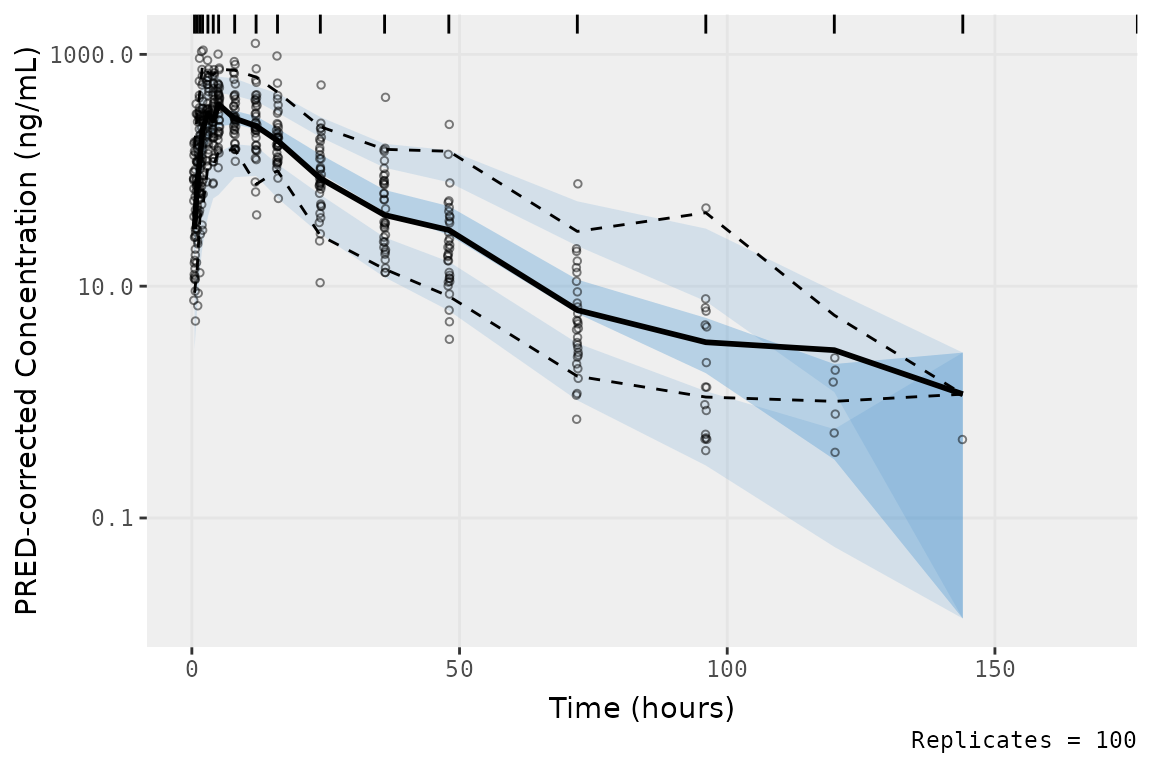
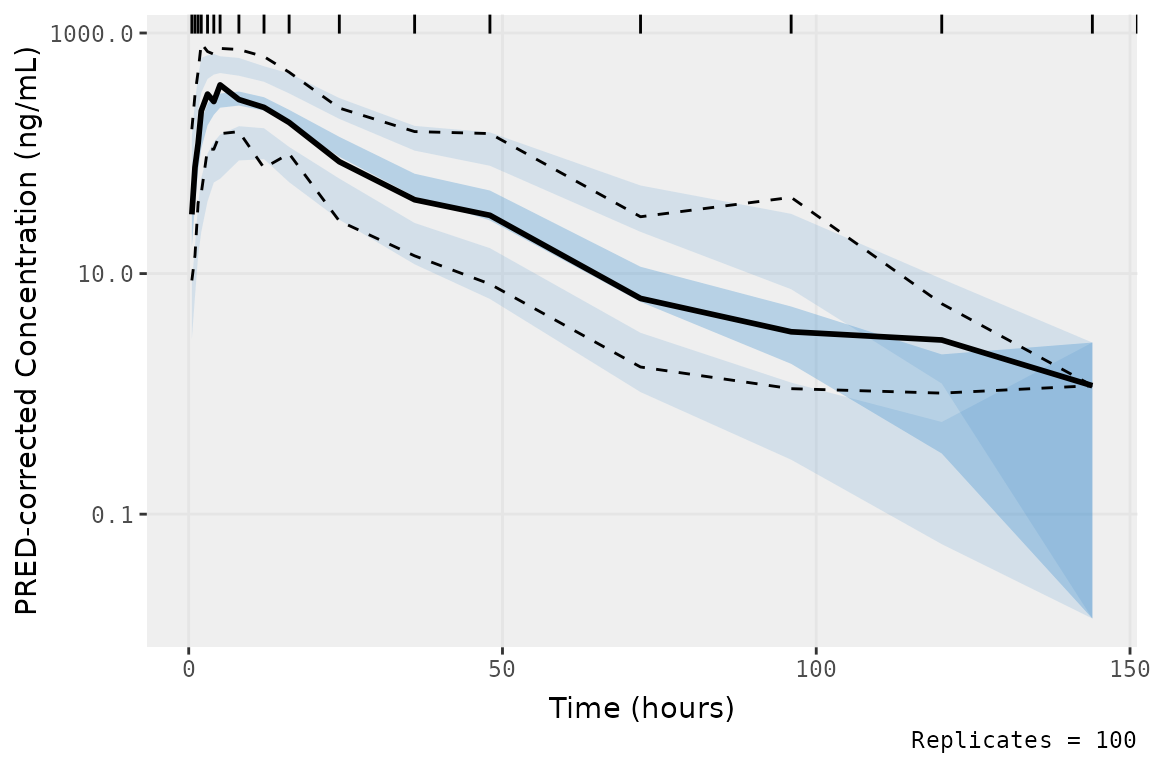
Deploying to gh-pages from @ ryancrass/pmxhelpr@6d241ac0917de4b4748eaf96eae78f7027ea180c 🚀

diff --git a/reference/plot_legend.html b/reference/plot_legend.html
@@ -1,0 +1,135 @@
+<!DOCTYPE html>
+<!-- Generated by pkgdown: do not edit by hand --><html lang="en"><head><meta http-equiv="Content-Type" content="text/html; charset=UTF-8"><meta charset="utf-8"><meta http-equiv="X-UA-Compatible" content="IE=edge"><meta name="viewport" content="width=device-width, initial-scale=1, shrink-to-fit=no"><title>Plot a legend for a visual predictive check (VPC) — plot_legend • pmxhelpr</title><script src="../deps/jquery-3.6.0/jquery-3.6.0.min.js"></script><meta name="viewport" content="width=device-width, initial-scale=1, shrink-to-fit=no"><link href="../deps/bootstrap-5.3.1/bootstrap.min.css" rel="stylesheet"><script src="../deps/bootstrap-5.3.1/bootstrap.bundle.min.js"></script><link href="../deps/font-awesome-6.4.2/css/all.min.css" rel="stylesheet"><link href="../deps/font-awesome-6.4.2/css/v4-shims.min.css" rel="stylesheet"><script src="../deps/headroom-0.11.0/headroom.min.js"></script><script src="../deps/headroom-0.11.0/jQuery.headroom.min.js"></script><script src="../deps/bootstrap-toc-1.0.1/bootstrap-toc.min.js"></script><script src="../deps/clipboard.js-2.0.11/clipboard.min.js"></script><script src="../deps/search-1.0.0/autocomplete.jquery.min.js"></script><script src="../deps/search-1.0.0/fuse.min.js"></script><script src="../deps/search-1.0.0/mark.min.js"></script><!-- pkgdown --><script src="../pkgdown.js"></script><meta property="og:title" content="Plot a legend for a visual predictive check (VPC) — plot_legend"><meta name="description" content="Plot a legend for a visual predictive check (VPC)"><meta property="og:description" content="Plot a legend for a visual predictive check (VPC)"><meta property="og:image" content="https://ryancrass.github.io/pmxhelpr/logo.png"></head><body>
+    <a href="#main" class="visually-hidden-focusable">Skip to contents</a>
+
+
+    <nav class="navbar navbar-expand-lg fixed-top bg-light" data-bs-theme="light" aria-label="Site navigation"><div class="container">
+
+    <a class="navbar-brand me-2" href="../index.html">pmxhelpr</a>
+
+    <small class="nav-text text-muted me-auto" data-bs-toggle="tooltip" data-bs-placement="bottom" title="">0.0.2.9000</small>
+
+
+    <button class="navbar-toggler" type="button" data-bs-toggle="collapse" data-bs-target="#navbar" aria-controls="navbar" aria-expanded="false" aria-label="Toggle navigation">
+      <span class="navbar-toggler-icon"></span>
+    </button>
+
+    <div id="navbar" class="collapse navbar-collapse ms-3">
+      <ul class="navbar-nav me-auto"><li class="active nav-item"><a class="nav-link" href="../reference/index.html">Reference</a></li>
+<li class="nav-item dropdown">
+  <button class="nav-link dropdown-toggle" type="button" id="dropdown-articles" data-bs-toggle="dropdown" aria-expanded="false" aria-haspopup="true">Articles</button>
+  <ul class="dropdown-menu" aria-labelledby="dropdown-articles"><li><a class="dropdown-item" href="../articles/vpc-exact-bins.html">VPC Plots with Exact Bins</a></li>
+  </ul></li>
+<li class="nav-item"><a class="nav-link" href="../news/index.html">Changelog</a></li>
+      </ul><ul class="navbar-nav"><li class="nav-item"><form class="form-inline" role="search">
+ <input class="form-control" type="search" name="search-input" id="search-input" autocomplete="off" aria-label="Search site" placeholder="Search for" data-search-index="../search.json"></form></li>
+<li class="nav-item"><a class="external-link nav-link" href="https://github.com/ryancrass/pmxhelpr/" aria-label="GitHub"><span class="fa fab fa-github fa-lg"></span></a></li>
+      </ul></div>
+
+
+  </div>
+</nav><div class="container template-reference-topic">
+<div class="row">
+  <main id="main" class="col-md-9"><div class="page-header">
+      <img src="../logo.png" class="logo" alt=""><h1>Plot a legend for a visual predictive check (VPC)</h1>
+      <small class="dont-index">Source: <a href="https://github.com/ryancrass/pmxhelpr/blob/main/R/plot_legend.R" class="external-link"><code>R/plot_legend.R</code></a></small>
+      <div class="d-none name"><code>plot_legend.Rd</code></div>
+    </div>
+
+    <div class="ref-description section level2">
+    <p>Plot a legend for a visual predictive check (VPC)</p>
+    </div>
+
+    <div class="section level2">
+    <h2 id="ref-usage">Usage<a class="anchor" aria-label="anchor" href="#ref-usage"></a></h2>
+    <div class="sourceCode"><pre class="sourceCode r"><code><span><span class="fu">plot_legend</span><span class="op">(</span></span>
+<span>  ci <span class="op">=</span> <span class="fu"><a href="https://rdrr.io/r/base/c.html" class="external-link">c</a></span><span class="op">(</span><span class="fl">0.05</span>, <span class="fl">0.95</span><span class="op">)</span>,</span>
+<span>  pi <span class="op">=</span> <span class="fu"><a href="https://rdrr.io/r/base/c.html" class="external-link">c</a></span><span class="op">(</span><span class="fl">0.05</span>, <span class="fl">0.95</span><span class="op">)</span>,</span>
+<span>  shown <span class="op">=</span> <span class="fu"><a href="https://rdrr.io/r/base/list.html" class="external-link">list</a></span><span class="op">(</span>obs_dv <span class="op">=</span> <span class="cn">TRUE</span>, obs_ci <span class="op">=</span> <span class="cn">TRUE</span>, pi <span class="op">=</span> <span class="cn">FALSE</span>, pi_as_area <span class="op">=</span> <span class="cn">FALSE</span>, pi_ci <span class="op">=</span></span>
+<span>    <span class="cn">TRUE</span>, obs_median <span class="op">=</span> <span class="cn">TRUE</span>, sim_median <span class="op">=</span> <span class="cn">FALSE</span>, sim_median_ci <span class="op">=</span> <span class="cn">TRUE</span><span class="op">)</span></span>
+<span><span class="op">)</span></span></code></pre></div>
+    </div>
+
+    <div class="section level2">
+    <h2 id="arguments">Arguments<a class="anchor" aria-label="anchor" href="#arguments"></a></h2>
+
+
+<dl><dt id="arg-ci">ci<a class="anchor" aria-label="anchor" href="#arg-ci"></a></dt>
+<dd><p>simulated confidence interval plotted. Should match argument passed to <code><a href="https://rdrr.io/pkg/vpc/man/vpc.html" class="external-link">vpc::vpc()</a></code>. Default is c(0.05, 0.95).</p></dd>
+
+
+<dt id="arg-pi">pi<a class="anchor" aria-label="anchor" href="#arg-pi"></a></dt>
+<dd><p>prediction intervals for plotted. Should match argument passed to <code><a href="https://rdrr.io/pkg/vpc/man/vpc.html" class="external-link">vpc::vpc()</a></code>. Default is c(0.05, 0.95),</p></dd>
+
+
+<dt id="arg-shown">shown<a class="anchor" aria-label="anchor" href="#arg-shown"></a></dt>
+<dd><p>Named list of logicals specifying which layers to include on the plot passed to <code>show</code> argument of <code><a href="https://rdrr.io/pkg/vpc/man/vpc.html" class="external-link">vpc::vpc()</a></code>.
+Entire <code>list</code> must be specified if modifying from default.</p>
+<p>Default is:</p><ul><li><p>Observed points: <code>obs_dv</code> = FALSE.</p></li>
+<li><p>Observed quantiles: <code>obs_ci</code> = TRUE</p></li>
+<li><p>Simulated inter-quantile range:<code>pi</code> = FALSE</p></li>
+<li><p>Simulated inter-quantile area: <code>pi_as_area</code> = FALSE</p></li>
+<li><p>Simulated Quantile CI: <code>pi_ci</code> = TRUE</p></li>
+<li><p>Observed Median: <code>obs_median</code> = TRUE</p></li>
+<li><p>Simulated Median: <code>sim_median</code> = FALSE</p></li>
+<li><p>Simulated Median CI: <code>sim_median_ci</code> = TRUE</p></li>
+</ul></dd>
+
+</dl></div>
+    <div class="section level2">
+    <h2 id="value">Value<a class="anchor" aria-label="anchor" href="#value"></a></h2>
+    <p>a ggplot2 object</p>
+    </div>
+
+    <div class="section level2">
+    <h2 id="ref-examples">Examples<a class="anchor" aria-label="anchor" href="#ref-examples"></a></h2>
+    <div class="sourceCode"><pre class="sourceCode r"><code><span class="r-in"><span><span class="fu">plot_legend</span><span class="op">(</span><span class="op">)</span></span></span>
+<span class="r-wrn co"><span class="r-pr">#&gt;</span> <span class="warning">Warning: </span>Removed 1 row containing missing values or values outside the scale range</span>
+<span class="r-wrn co"><span class="r-pr">#&gt;</span> (`geom_point()`).</span>
+<span class="r-wrn co"><span class="r-pr">#&gt;</span> <span class="warning">Warning: </span>Removed 1 row containing missing values or values outside the scale range</span>
+<span class="r-wrn co"><span class="r-pr">#&gt;</span> (`geom_line()`).</span>
+<span class="r-wrn co"><span class="r-pr">#&gt;</span> <span class="warning">Warning: </span>Removed 1 row containing missing values or values outside the scale range</span>
+<span class="r-wrn co"><span class="r-pr">#&gt;</span> (`geom_line()`).</span>
+<span class="r-wrn co"><span class="r-pr">#&gt;</span> <span class="warning">Warning: </span>Removed 1 row containing missing values or values outside the scale range</span>
+<span class="r-wrn co"><span class="r-pr">#&gt;</span> (`geom_rect()`).</span>
+<span class="r-wrn co"><span class="r-pr">#&gt;</span> <span class="warning">Warning: </span>Removed 1 row containing missing values or values outside the scale range</span>
+<span class="r-wrn co"><span class="r-pr">#&gt;</span> (`geom_rect()`).</span>
+<span class="r-plt img"><img src="plot_legend-1.png" alt="" width="700" height="433"></span>
+<span class="r-in"><span><span class="fu">plot_legend</span><span class="op">(</span></span></span>
+<span class="r-in"><span>pi <span class="op">=</span> <span class="fu"><a href="https://rdrr.io/r/base/c.html" class="external-link">c</a></span><span class="op">(</span><span class="fl">0.025</span>, <span class="fl">0.975</span><span class="op">)</span>,</span></span>
+<span class="r-in"><span>ci <span class="op">=</span> <span class="fu"><a href="https://rdrr.io/r/base/c.html" class="external-link">c</a></span><span class="op">(</span><span class="fl">0.025</span>, <span class="fl">0.925</span><span class="op">)</span>,</span></span>
+<span class="r-in"><span> shown <span class="op">=</span> <span class="fu"><a href="https://rdrr.io/r/base/list.html" class="external-link">list</a></span><span class="op">(</span>obs_dv <span class="op">=</span> <span class="cn">FALSE</span>, obs_ci <span class="op">=</span> <span class="cn">TRUE</span>,</span></span>
+<span class="r-in"><span> pi <span class="op">=</span> <span class="cn">FALSE</span>, pi_as_area <span class="op">=</span> <span class="cn">FALSE</span>, pi_ci <span class="op">=</span> <span class="cn">TRUE</span>,</span></span>
+<span class="r-in"><span> obs_median <span class="op">=</span> <span class="cn">TRUE</span>,</span></span>
+<span class="r-in"><span> sim_median <span class="op">=</span><span class="cn">FALSE</span>, sim_median_ci <span class="op">=</span> <span class="cn">TRUE</span><span class="op">)</span><span class="op">)</span></span></span>
+<span class="r-wrn co"><span class="r-pr">#&gt;</span> <span class="warning">Warning: </span>Removed 1 row containing missing values or values outside the scale range</span>
+<span class="r-wrn co"><span class="r-pr">#&gt;</span> (`geom_line()`).</span>
+<span class="r-wrn co"><span class="r-pr">#&gt;</span> <span class="warning">Warning: </span>Removed 1 row containing missing values or values outside the scale range</span>
+<span class="r-wrn co"><span class="r-pr">#&gt;</span> (`geom_line()`).</span>
+<span class="r-wrn co"><span class="r-pr">#&gt;</span> <span class="warning">Warning: </span>Removed 1 row containing missing values or values outside the scale range</span>
+<span class="r-wrn co"><span class="r-pr">#&gt;</span> (`geom_rect()`).</span>
+<span class="r-wrn co"><span class="r-pr">#&gt;</span> <span class="warning">Warning: </span>Removed 1 row containing missing values or values outside the scale range</span>
+<span class="r-wrn co"><span class="r-pr">#&gt;</span> (`geom_rect()`).</span>
+<span class="r-plt img"><img src="plot_legend-2.png" alt="" width="700" height="433"></span>
+</code></pre></div>
+    </div>
+  </main><aside class="col-md-3"><nav id="toc" aria-label="Table of contents"><h2>On this page</h2>
+    </nav></aside></div>
+
+
+    <footer><div class="pkgdown-footer-left">
+  <p>Developed by Ryan Crass.</p>
+</div>
+
+<div class="pkgdown-footer-right">
+  <p>Site built with <a href="https://pkgdown.r-lib.org/" class="external-link">pkgdown</a> 2.1.1.</p>
+</div>
+
+    </footer></div>
+
+
+
+
+
+  </body></html>
+

diff --git a/reference/plot_vpc_exactbins.html b/reference/plot_vpc_exactbins.html
@@ -50,12 +50,14 @@ that returns a <code>ggplot2</code> object.</p>
 <span>  pcvpc <span class="op">=</span> <span class="cn">FALSE</span>,</span>
 <span>  time_vars <span class="op">=</span> <span class="fu"><a href="https://rdrr.io/r/base/c.html" class="external-link">c</a></span><span class="op">(</span>TIME <span class="op">=</span> <span class="st">"TIME"</span>, NTIME <span class="op">=</span> <span class="st">"NTIME"</span><span class="op">)</span>,</span>
 <span>  output_vars <span class="op">=</span> <span class="fu"><a href="https://rdrr.io/r/base/c.html" class="external-link">c</a></span><span class="op">(</span>PRED <span class="op">=</span> <span class="st">"PRED"</span>, IPRED <span class="op">=</span> <span class="st">"IPRED"</span>, SIMDV <span class="op">=</span> <span class="st">"SIMDV"</span>, OBSDV <span class="op">=</span> <span class="st">"OBSDV"</span><span class="op">)</span>,</span>
+<span>  loq <span class="op">=</span> <span class="cn">NULL</span>,</span>
 <span>  strat_var <span class="op">=</span> <span class="cn">NULL</span>,</span>
 <span>  irep_name <span class="op">=</span> <span class="st">"SIM"</span>,</span>
 <span>  min_bin_count <span class="op">=</span> <span class="fl">1</span>,</span>
-<span>  lower_bound <span class="op">=</span> <span class="fl">0</span>,</span>
 <span>  show_rep <span class="op">=</span> <span class="cn">TRUE</span>,</span>
-<span>  loq <span class="op">=</span> <span class="cn">NULL</span>,</span>
+<span>  lower_bound <span class="op">=</span> <span class="fl">0</span>,</span>
+<span>  shown <span class="op">=</span> <span class="fu"><a href="https://rdrr.io/r/base/list.html" class="external-link">list</a></span><span class="op">(</span>obs_dv <span class="op">=</span> <span class="cn">FALSE</span>, obs_ci <span class="op">=</span> <span class="cn">TRUE</span>, pi <span class="op">=</span> <span class="cn">FALSE</span>, pi_as_area <span class="op">=</span> <span class="cn">FALSE</span>, pi_ci <span class="op">=</span></span>
+<span>    <span class="cn">TRUE</span>, obs_median <span class="op">=</span> <span class="cn">TRUE</span>, sim_median <span class="op">=</span> <span class="cn">FALSE</span>, sim_median_ci <span class="op">=</span> <span class="cn">TRUE</span><span class="op">)</span>,</span>
 <span>  <span class="va">...</span></span>
 <span><span class="op">)</span></span></code></pre></div>
     </div>
@@ -82,6 +84,11 @@ Defaults are <code>"TIME"</code> and <code>"NTIME"</code>.</p></dd>
 Defaults are <code>"PRED"</code>, <code>"IPRED"</code>, and <code>"DV"</code>.</p></dd>
 
 
+<dt id="arg-loq">loq<a class="anchor" aria-label="anchor" href="#arg-loq"></a></dt>
+<dd><p>Numeric value of the lower limit of quantification (LLOQ) for the assay. Passed to <code>lloq</code> argument
+of <code><a href="https://rdrr.io/pkg/vpc/man/vpc.html" class="external-link">vpc::vpc()</a></code>. Specifying this argument implies that <code>OBSDV</code>is missing in <code>sim</code> where &lt; LLOQ.</p></dd>
+
+
 <dt id="arg-strat-var">strat_var<a class="anchor" aria-label="anchor" href="#arg-strat-var"></a></dt>
 <dd><p>Character string of stratification variable passed to <code>stratify</code> argument
 of <code><a href="https://rdrr.io/pkg/vpc/man/vpc.html" class="external-link">vpc::vpc()</a></code>. Currently, only a single stratifying variable is supported.</p></dd>
@@ -97,17 +104,26 @@ in binned plot layers. This argument drops small bins from summary statistic cal
 but retains these observations in the observed data points.</p></dd>
 
 
-<dt id="arg-lower-bound">lower_bound<a class="anchor" aria-label="anchor" href="#arg-lower-bound"></a></dt>
-<dd><p>Lower bound of the dependent variable for prediction correction. Default is <code>0</code>.</p></dd>
-
-
 <dt id="arg-show-rep">show_rep<a class="anchor" aria-label="anchor" href="#arg-show-rep"></a></dt>
 <dd><p>Display number of replicates as a plot caption. Default is <code>TRUE</code>.</p></dd>
 
 
-<dt id="arg-loq">loq<a class="anchor" aria-label="anchor" href="#arg-loq"></a></dt>
-<dd><p>Numeric value of the lower limit of quantification (LLOQ) for the assay. Passed to <code>lloq</code> argument
-of <code><a href="https://rdrr.io/pkg/vpc/man/vpc.html" class="external-link">vpc::vpc()</a></code>. Specifying this argument implies that <code>OBSDV</code>is missing in <code>sim</code> where &lt; LLOQ.</p></dd>
+<dt id="arg-lower-bound">lower_bound<a class="anchor" aria-label="anchor" href="#arg-lower-bound"></a></dt>
+<dd><p>Lower bound of the dependent variable for prediction correction. Default is <code>0</code>.</p></dd>
+
+
+<dt id="arg-shown">shown<a class="anchor" aria-label="anchor" href="#arg-shown"></a></dt>
+<dd><p>Named list of logicals specifying which layers to include on the plot passed to <code>show</code> argument of <code><a href="https://rdrr.io/pkg/vpc/man/vpc.html" class="external-link">vpc::vpc()</a></code>.
+Entire <code>list</code> must be specified if modifying from default.</p>
+<p>Default is:</p><ul><li><p>Observed points: <code>obs_dv</code> = FALSE.</p></li>
+<li><p>Observed quantiles: <code>obs_ci</code> = TRUE</p></li>
+<li><p>Simulated inter-quantile range:<code>pi</code> = FALSE</p></li>
+<li><p>Simulated inter-quantile area: <code>pi_as_area</code> = FALSE</p></li>
+<li><p>Simulated Quantile CI: <code>pi_ci</code> = TRUE</p></li>
+<li><p>Observed Median: <code>obs_median</code> = TRUE</p></li>
+<li><p>Simulated Median: <code>sim_median</code> = FALSE</p></li>
+<li><p>Simulated Median CI: <code>sim_median_ci</code> = TRUE</p></li>
+</ul></dd>
 
 
 <dt id="arg--">...<a class="anchor" aria-label="anchor" href="#arg--"></a></dt>
@@ -134,9 +150,11 @@ of <code><a href="https://rdrr.io/pkg/vpc/man/vpc.html" class="external-link">vp
 <span class="r-in"><span>pcvpc <span class="op">=</span> <span class="cn">TRUE</span>,</span></span>
 <span class="r-in"><span>pi <span class="op">=</span> <span class="fu"><a href="https://rdrr.io/r/base/c.html" class="external-link">c</a></span><span class="op">(</span><span class="fl">0.05</span>, <span class="fl">0.95</span><span class="op">)</span>,</span></span>
 <span class="r-in"><span>ci <span class="op">=</span> <span class="fu"><a href="https://rdrr.io/r/base/c.html" class="external-link">c</a></span><span class="op">(</span><span class="fl">0.05</span>, <span class="fl">0.95</span><span class="op">)</span>,</span></span>
+<span class="r-in"><span>loq <span class="op">=</span> <span class="fl">1</span>,</span></span>
 <span class="r-in"><span>log_y <span class="op">=</span> <span class="cn">TRUE</span><span class="op">)</span></span></span>
 <span class="r-msg co"><span class="r-pr">#&gt;</span> Joining with `by = join_by(NTIME)`</span>
 <span class="r-msg co"><span class="r-pr">#&gt;</span> Joining with `by = join_by(NTIME)`</span>
+<span class="r-msg co"><span class="r-pr">#&gt;</span> Prediction-correction cannot be used together with censored data (&lt;LLOQ or &gt;ULOQ). VPC plot will be shown for non-censored data only!</span>
 </code></pre></div>
     </div>
   </main><aside class="col-md-3"><nav id="toc" aria-label="Table of contents"><h2>On this page</h2>

diff --git a/index.html b/index.html
@@ -93,6 +93,9 @@
 <code>df_nobsbin</code> returns a summary <code>data.frame</code> with counts of the number of missing and non-missing observations per bin.</li>
 <li>
 <code>df_pcdv</code> returns a <code>data.frame</code> containing the prediction-corrected dependent variable.</li>
+<li>
+<code>plot_legend</code> returns a <code>ggplot</code> object containing a legend for a VPC plot generated using <code>plot_vpc_exactbins</code>
+</li>
 </ul>
 </li>
 </ul>
@@ -107,6 +110,7 @@
 <span><span class="kw"><a href="https://rdrr.io/r/base/library.html" class="external-link">library</a></span><span class="op">(</span><span class="va"><a href="https://ggplot2.tidyverse.org" class="external-link">ggplot2</a></span><span class="op">)</span></span>
 <span><span class="kw"><a href="https://rdrr.io/r/base/library.html" class="external-link">library</a></span><span class="op">(</span><span class="va"><a href="https://github.com/metrumresearchgroup/mrgsolve" class="external-link">mrgsolve</a></span><span class="op">)</span></span>
 <span><span class="kw"><a href="https://rdrr.io/r/base/library.html" class="external-link">library</a></span><span class="op">(</span><span class="va"><a href="https://github.com/ronkeizer/vpc" class="external-link">vpc</a></span><span class="op">)</span></span>
+<span><span class="kw"><a href="https://rdrr.io/r/base/library.html" class="external-link">library</a></span><span class="op">(</span><span class="va"><a href="https://patchwork.data-imaginist.com" class="external-link">patchwork</a></span><span class="op">)</span></span>
 <span><span class="kw"><a href="https://rdrr.io/r/base/library.html" class="external-link">library</a></span><span class="op">(</span><span class="va"><a href="https://withr.r-lib.org" class="external-link">withr</a></span><span class="op">)</span></span>
 <span></span>
 <span><span class="co">#Read internal analysis-ready dataset for an example Phase 1 study</span></span>
@@ -125,8 +129,9 @@
 <span><span class="co">#Plot output in a Prediction-corrected Visual Predictive Check (VPC)</span></span>
 <span>  <span class="co">#Exact nominal time bins present in data_sad ("NTIME") are used to plot summary statistics</span></span>
 <span>  <span class="co">#Actual time ("TIME") is used to plot observed data points, which are also prediction-corrected if pcvpc=TRUE</span></span>
+<span>  <span class="co">#LLOQ in the dataset is 1 ng/mL</span></span>
 <span>  </span>
-<span><span class="va">vpc_exact_food</span> <span class="op">&lt;-</span> <span class="fu"><a href="reference/plot_vpc_exactbins.html">plot_vpc_exactbins</a></span><span class="op">(</span></span>
+<span><span class="va">plot_obj_food</span> <span class="op">&lt;-</span> <span class="fu"><a href="reference/plot_vpc_exactbins.html">plot_vpc_exactbins</a></span><span class="op">(</span></span>
 <span>  sim <span class="op">=</span> <span class="fu"><a href="https://dplyr.tidyverse.org/reference/mutate.html" class="external-link">mutate</a></span><span class="op">(</span><span class="va">simout</span>, FOOD_f <span class="op">=</span> <span class="fu"><a href="https://rdrr.io/r/base/factor.html" class="external-link">factor</a></span><span class="op">(</span><span class="va">FOOD</span>, levels <span class="op">=</span> <span class="fu"><a href="https://rdrr.io/r/base/c.html" class="external-link">c</a></span><span class="op">(</span><span class="fl">0</span>,<span class="fl">1</span><span class="op">)</span>, labels <span class="op">=</span> <span class="fu"><a href="https://rdrr.io/r/base/c.html" class="external-link">c</a></span><span class="op">(</span><span class="st">"Fasted"</span>, <span class="st">"Fed"</span><span class="op">)</span><span class="op">)</span><span class="op">)</span>, </span>
 <span>  strat_vars <span class="op">=</span> <span class="st">"FOOD_f"</span>,</span>
 <span>  pcvpc <span class="op">=</span> <span class="cn">TRUE</span>,</span>
@@ -134,10 +139,18 @@
 <span>  output_vars <span class="op">=</span> <span class="fu"><a href="https://rdrr.io/r/base/c.html" class="external-link">c</a></span><span class="op">(</span>PRED <span class="op">=</span> <span class="st">"PRED"</span>, IPRED <span class="op">=</span> <span class="st">"IPRED"</span>, SIMDV <span class="op">=</span> <span class="st">"SIMDV"</span>, OBSDV <span class="op">=</span> <span class="st">"OBSDV"</span><span class="op">)</span>,</span>
 <span>  pi <span class="op">=</span> <span class="fu"><a href="https://rdrr.io/r/base/c.html" class="external-link">c</a></span><span class="op">(</span><span class="fl">0.05</span>, <span class="fl">0.95</span><span class="op">)</span>,</span>
 <span>  ci <span class="op">=</span> <span class="fu"><a href="https://rdrr.io/r/base/c.html" class="external-link">c</a></span><span class="op">(</span><span class="fl">0.05</span>, <span class="fl">0.95</span><span class="op">)</span>,</span>
+<span>  loq <span class="op">=</span> <span class="fl">1</span>,</span>
 <span>  log_y <span class="op">=</span> <span class="cn">TRUE</span></span>
 <span><span class="op">)</span></span>
 <span></span>
-<span><span class="va">vpc_exact_food</span></span></code></pre></div>
+<span><span class="va">plot_obj_food</span></span>
+<span></span>
+<span><span class="co">#Add Legend</span></span>
+<span><span class="va">plot_obj_leg</span> <span class="op">&lt;-</span> <span class="fu"><a href="reference/plot_legend.html">plot_legend</a></span><span class="op">(</span>pi <span class="op">=</span> <span class="fu"><a href="https://rdrr.io/r/base/c.html" class="external-link">c</a></span><span class="op">(</span><span class="fl">0.05</span>, <span class="fl">0.95</span><span class="op">)</span>, ci <span class="op">=</span> <span class="fu"><a href="https://rdrr.io/r/base/c.html" class="external-link">c</a></span><span class="op">(</span><span class="fl">0.05</span>, <span class="fl">0.95</span><span class="op">)</span><span class="op">)</span></span>
+<span><span class="va">plot_obj_leg</span></span>
+<span></span>
+<span><span class="va">plot_obj_food_wleg</span> <span class="op">&lt;-</span> <span class="va">plot_obj_food</span> <span class="op">+</span> <span class="va">plot_obj_leg</span> <span class="op">+</span> <span class="fu">plot_layout</span><span class="op">(</span>widths <span class="op">=</span> <span class="fu"><a href="https://rdrr.io/r/base/c.html" class="external-link">c</a></span><span class="op">(</span><span class="fl">2</span>,<span class="fl">1</span><span class="op">)</span><span class="op">)</span></span>
+<span><span class="va">plot_obj_food_wleg</span></span></code></pre></div>
 </div>
 </div>
   </main><aside class="col-md-3"><div class="links">

diff --git a/news/index.html b/news/index.html
@@ -37,10 +37,23 @@
 
     <div class="section level2">
 <h2 class="pkg-version" data-toc-text="development version" id="pmxhelpr-development-version">pmxhelpr (development version)<a class="anchor" aria-label="anchor" href="#pmxhelpr-development-version"></a></h2>
-</div>
+<ul><li>Additional functionality for <code>plot_vpc_exactbins</code>
+<ul><li>
+<code>shown</code> argument added to facilitate customization of which layers are shown in the plot and standardize with new function <code>plot_legend</code>. Passed to <code>show</code> argument of <code><a href="https://rdrr.io/pkg/vpc/man/vpc.html" class="external-link">vpc::vpc()</a></code>
+</li>
+</ul></li>
+<li>
+<code>plot_legend</code> helper function to generate a legend for a VPC plot generated using <code><a href="../reference/plot_vpc_exactbins.html">plot_vpc_exactbins()</a></code>, which can be combined with the VPC plot using the <code>patchwork</code> package</li>
+</ul></div>
     <div class="section level2">
 <h2 class="pkg-version" data-toc-text="0.0.2" id="pmxhelpr-002">pmxhelpr 0.0.2<a class="anchor" aria-label="anchor" href="#pmxhelpr-002"></a></h2>
-</div>
+<ul><li>Additional functionality for <code>plot_vpc_exactbins</code>
+<ul><li>
+<code>loq</code> argument added to facilitate incorporating BLQ censoring of observed data in summary quantiles</li>
+</ul></li>
+<li>Bug fix to allow passing argument <code>vpcdb = TRUE</code> to <code><a href="https://rdrr.io/pkg/vpc/man/vpc.html" class="external-link">vpc::vpc()</a></code>
+</li>
+</ul></div>
     <div class="section level2">
 <h2 class="pkg-version" data-toc-text="0.0.1" id="pmxhelpr-001">pmxhelpr 0.0.1<a class="anchor" aria-label="anchor" href="#pmxhelpr-001"></a></h2>
 <ul><li>

diff --git a/reference/index.html b/reference/index.html
@@ -83,16 +83,16 @@
         <dd>Load an mrgsolve model file from the internal model library</dd>
       </dl><dl><dt>
 
+          <code><a href="plot_legend.html">plot_legend()</a></code>
+
+        </dt>
+        <dd>Plot a legend for a visual predictive check (VPC)</dd>
+      </dl><dl><dt>
+
           <code><a href="plot_vpc_exactbins.html">plot_vpc_exactbins()</a></code>
 
         </dt>
         <dd>Plot a visual predictive check (VPC) with exact time bins</dd>
-      </dl><dl><dt>
-
-          <code><a href="plot_vpc_legend.html">plot_vpc_legend()</a></code>
-
-        </dt>
-        <dd>Plot a legend for a visual predictive check (VPC)</dd>
       </dl></div>
   </main></div>
 
